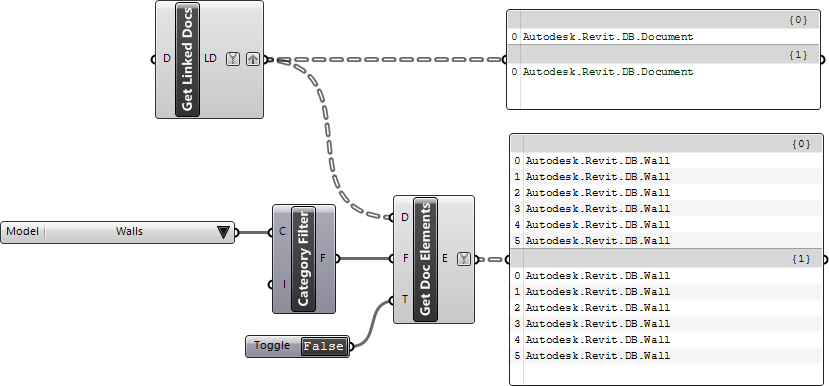
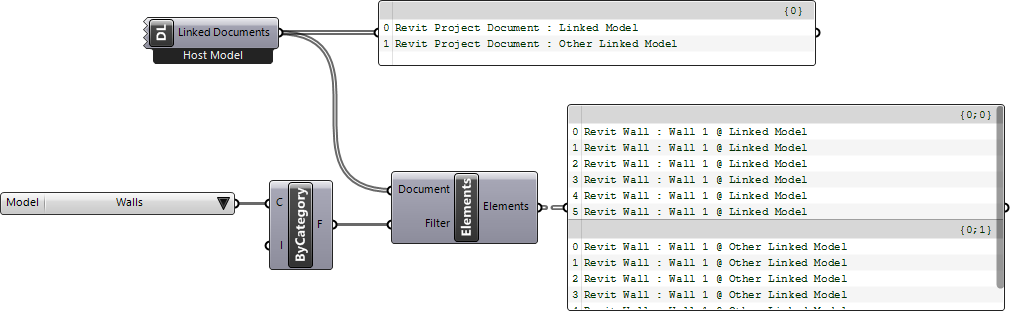
wiki update

diff --git a/docs/pages/_en/beta/guides/revit-links.md b/docs/pages/_en/beta/guides/revit-links.md
@@ -10,23 +10,19 @@ When Revit loads a model, it also loads all the linked models into the memory as
 {% endcapture %}
 {% include ltr/api_note.html note=api_note %}
 
-Use the *Get Linked Docs* component shared here to get all the documents that are linked into the active (or given) document
+Use the *Document Links* component shown here to get all the documents that are linked into the active (or given) document
 
 ![]({{ "/static/images/guides/revit-links01.png" | prepend: site.baseurl }})
 
-{% include ltr/download_comp.html archive='/static/ghnodes/Get Linked Docs.ghuser' name='Get Linked Docs' %}
-
 ## Accessing Linked Document Elements
 
-The build in *Document.Elements* component does not accept an input document and only works on the active document. Use the *Get Doc Elements* component shared here to access elements if a given document. The input document can be a linked document as well.
+Use the *Document Elements* component shown here to access elements if a given document. The input document can be a linked document as well.
 
 ![]({{ "/static/images/guides/revit-links02.png" | prepend: site.baseurl }})
 
-Use the **T** toggle to list element types as well
+You can chain the *All Documents* component into the *Document Links* component to grab all the linked documents from all the open documents:
 
 ![]({{ "/static/images/guides/revit-links02a.png" | prepend: site.baseurl }})
-
-{% include ltr/download_comp.html archive='/static/ghnodes/Get Doc Elements.ghuser' name='Get Doc Elements' %}
 
 ## Unloading/Reloading Links
 
